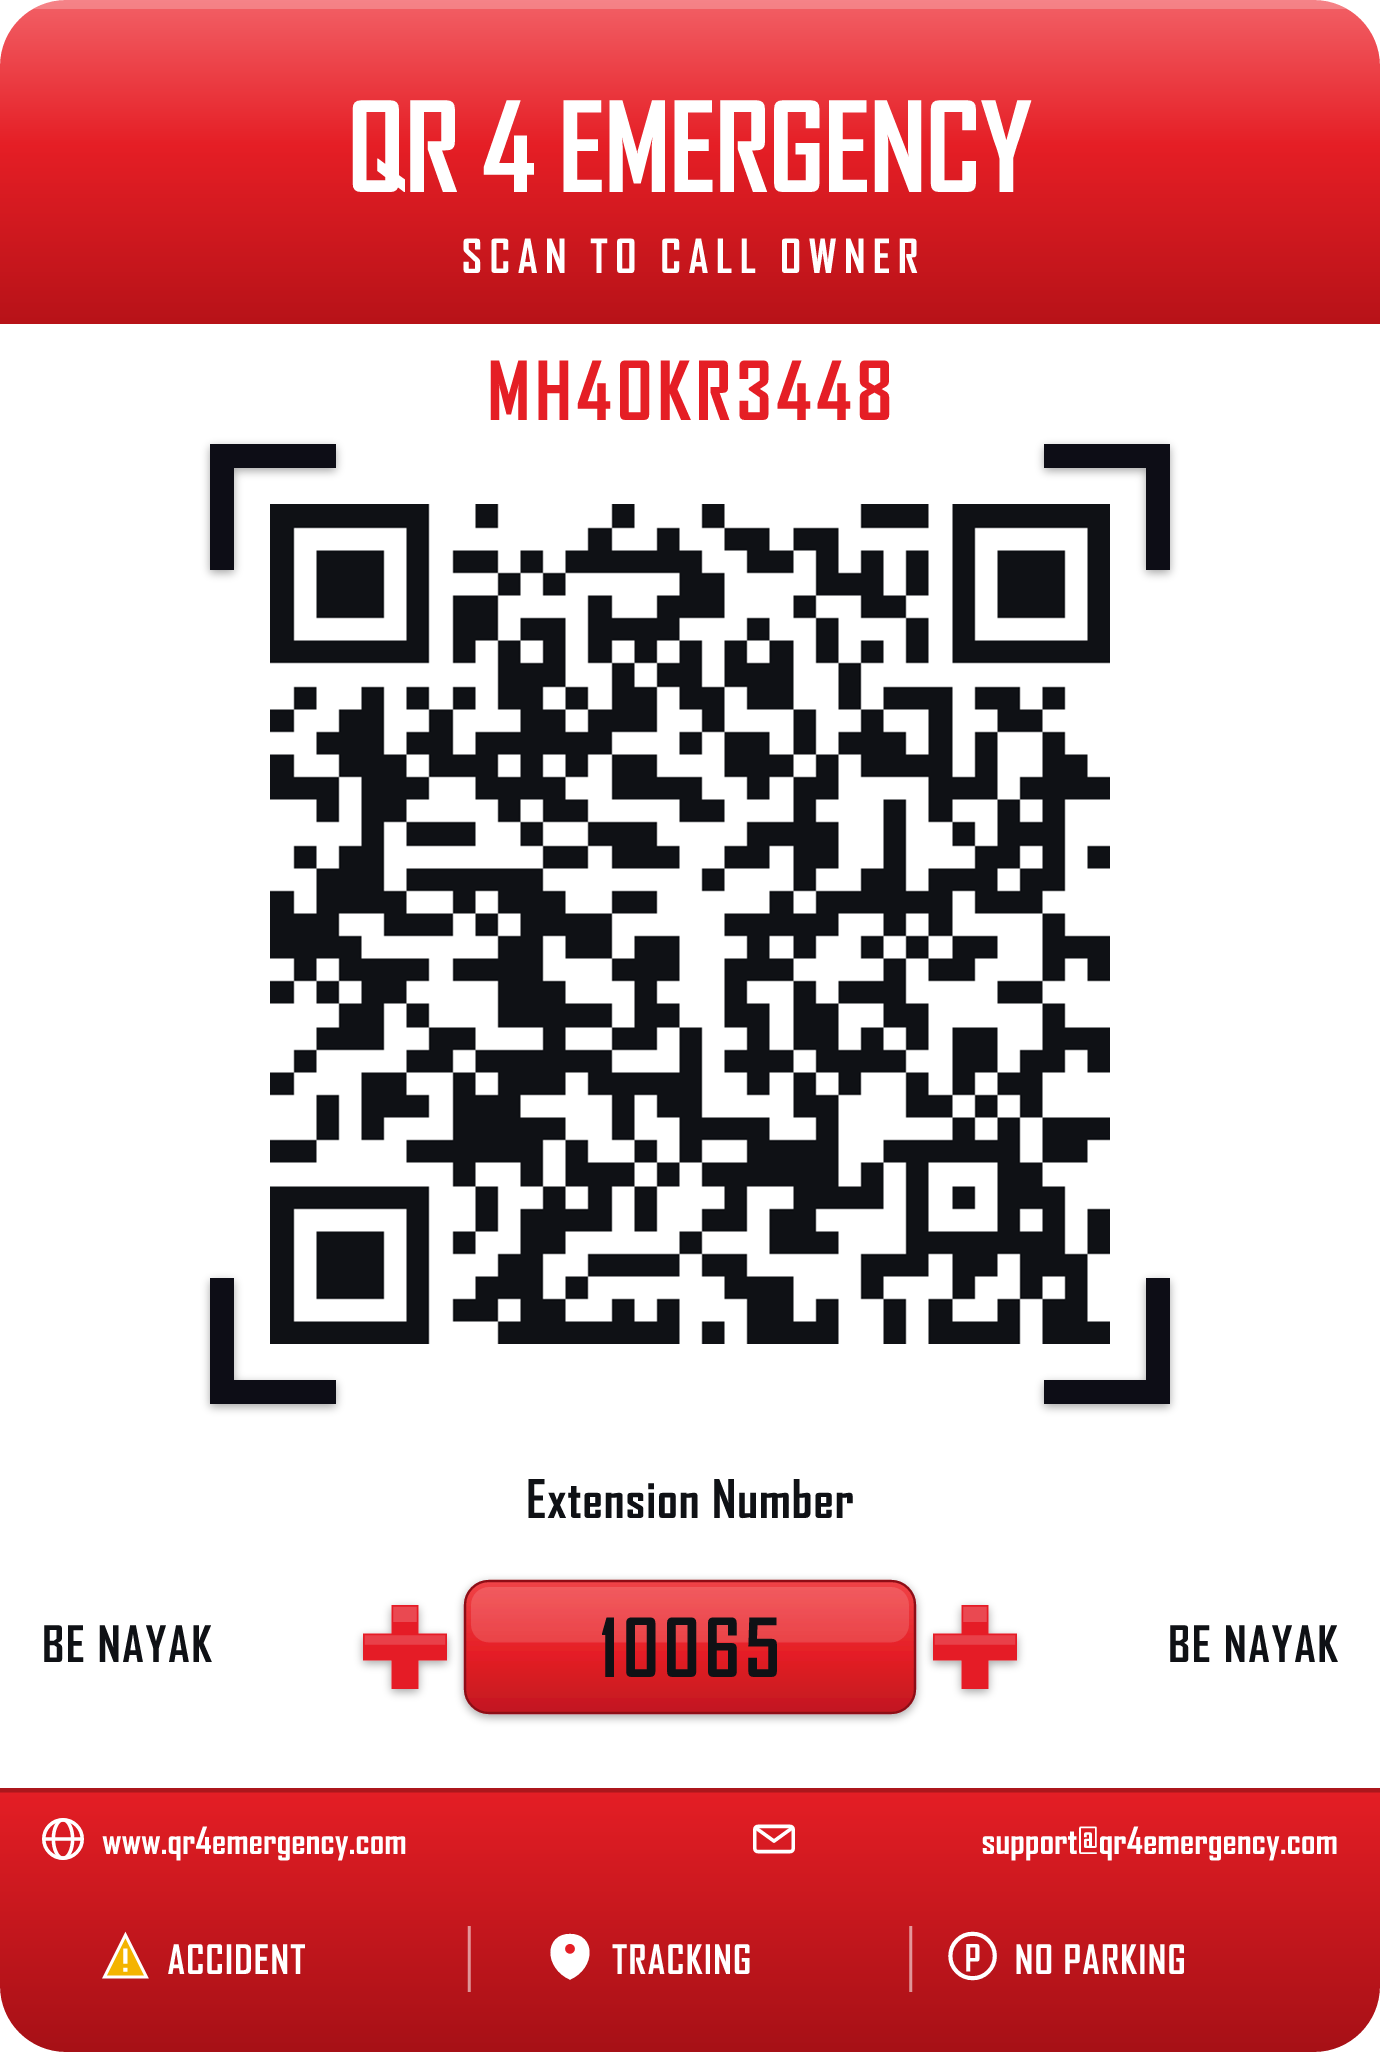
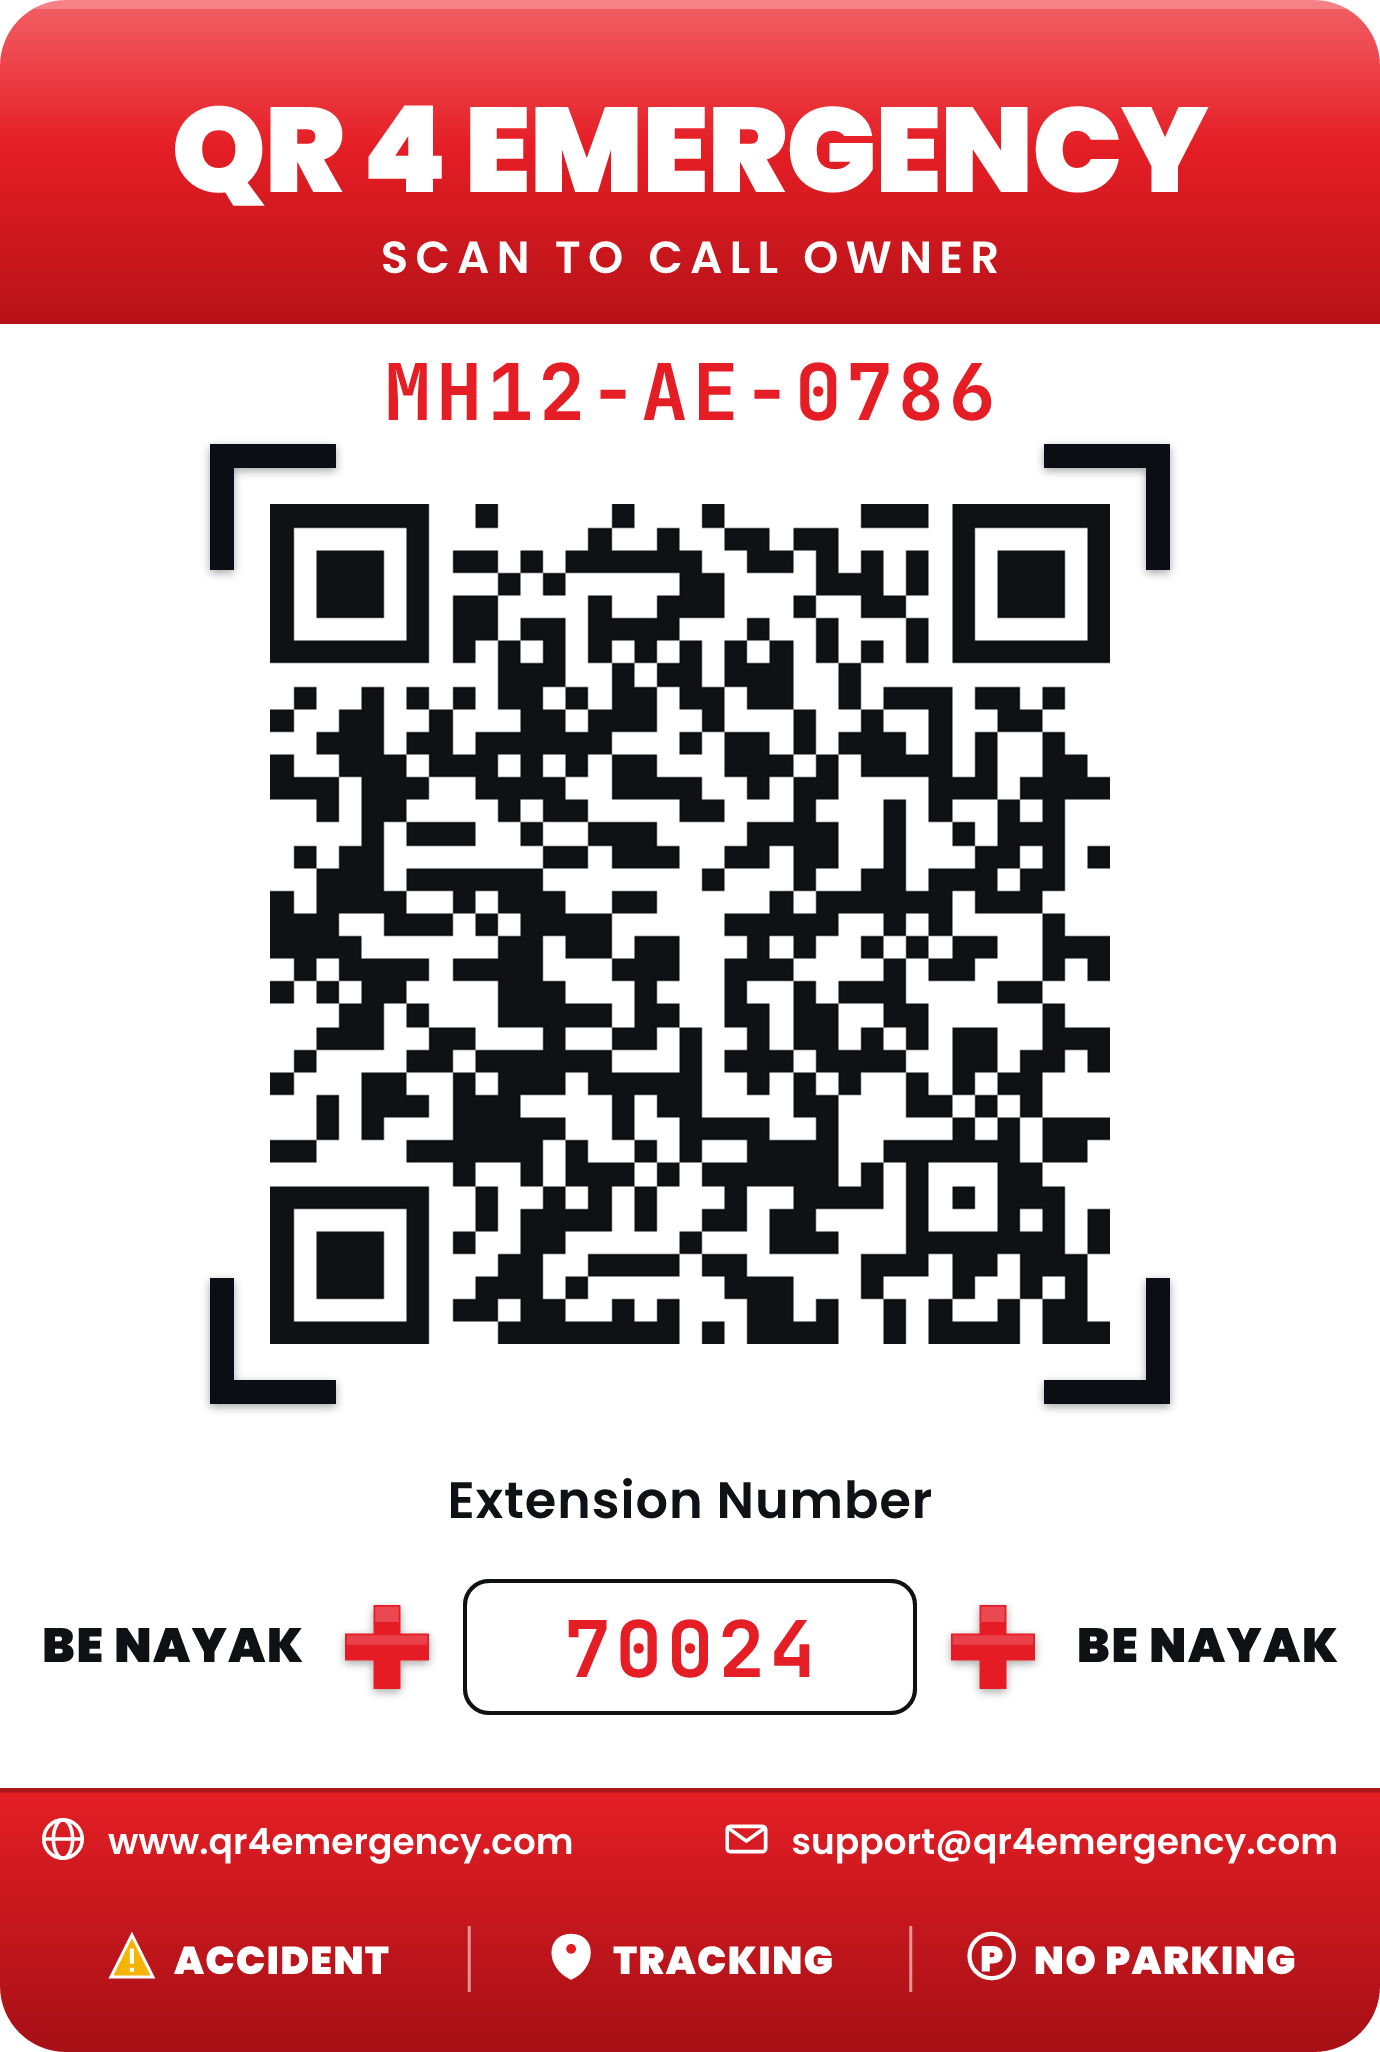
feat: update vehicle number format and reduce file size limits in admin panel

diff --git a/src/utils/sticker.js b/src/utils/sticker.js
@@ -17,6 +17,19 @@ const RED = '#E51E25';
 const INK = '#0F1115';
 const WHITE = '#FFFFFF';
 
+// Insert dashes between the segments of an Indian vehicle number to
+// match the sticker artwork (MH12AE0786 → MH12-AE-0786, 22BH1234AA →
+// 22-BH-1234-AA). Falls through unchanged for strings that don't match
+// either format so free-form/legacy values still render.
+function formatVehicleNumber(raw) {
+  const s = String(raw || '').replace(/[\s-]+/g, '').toUpperCase();
+  const std = s.match(/^([A-Z]{2})([0-9]{2})([A-Z]{1,2})([0-9]{4})$/);
+  if (std) return `${std[1]}${std[2]}-${std[3]}-${std[4]}`;
+  const bh = s.match(/^([0-9]{2})(BH)([0-9]{4})([A-Z]{1,2})$/);
+  if (bh) return `${bh[1]}-${bh[2]}-${bh[3]}-${bh[4]}`;
+  return s;
+}
+
 // ── Fonts ────────────────────────────────────────────────────────────
 //
 // resvg-js's prebuilt binary on Railway's build image was silently
@@ -91,6 +104,29 @@ try {
       'Run `npm install` in backend/ so @fontsource/*, wawoff2, opentype.js ' +
       `land in node_modules. (${e.message})`
   );
+}
+
+// Measure the rendered width of a string in the given font at the given
+// size, matching the exact glyph walk + kerning + letter-spacing that
+// textPath() uses. Callers use this to place icons and neighbouring text
+// with sub-pixel accuracy instead of relying on hardcoded estimates
+// (which drift whenever fonts, sizes, or copy change).
+export function measureTextWidth(text, { font, size, letterSpacing = 0 }) {
+  if (!font || !text) return 0;
+  const str = String(text);
+  const scale = size / font.unitsPerEm;
+  const glyphs = font.stringToGlyphs(str);
+  let advance = 0;
+  for (let i = 0; i < glyphs.length; i++) {
+    advance += glyphs[i].advanceWidth * scale;
+    if (i < glyphs.length - 1) {
+      const kern = font.getKerningValue
+        ? font.getKerningValue(glyphs[i], glyphs[i + 1]) * scale
+        : 0;
+      advance += kern + letterSpacing;
+    }
+  }
+  return advance;
 }
 
 // Serialise an opentype.js Path.commands array into an SVG `d`
@@ -256,13 +292,13 @@ function buildStickerSvg({ qrPngB64, digits, showVehicle, vehicleNumber }) {
   const PILL_Y = ROW_Y + (ROW_H - PILL_H) / 2;
 
   // Bottom row horizontal layout: BE NAYAK ... cross ... pill ... cross ... BE NAYAK
-  // Spacing budget (per side):
-  //   left edge (14) → BE NAYAK label (~80wide at 16pt) → 12px gap →
-  //   cross (28) → 8px gap → pill → 8px gap → cross → 12px gap → BE NAYAK
-  // Adds up cleanly at W=460.
+  // Every gap is computed from real measured widths so the row stays
+  // perfectly symmetric — no hardcoded label-width guesses that drift
+  // when font or copy changes.
   const CROSS_SIZE = 28;
-  const leftCrossCx = PILL_X - 20;
-  const rightCrossCx = PILL_X + PILL_W + 20;
+  const CROSS_TO_PILL_GAP = 12;
+  const leftCrossCx = PILL_X - CROSS_TO_PILL_GAP - CROSS_SIZE / 2;
+  const rightCrossCx = PILL_X + PILL_W + CROSS_TO_PILL_GAP + CROSS_SIZE / 2;
   const leftLabelX = 14;
   const rightLabelX = W - 14;
   const rowCy = ROW_Y + ROW_H / 2;
@@ -323,11 +359,13 @@ function buildStickerSvg({ qrPngB64, digits, showVehicle, vehicleNumber }) {
       font: FONT_BODY, size: 15, fill: WHITE, anchor: 'middle', letterSpacing: 2.4,
     })}
 
-    <!-- ── Vehicle number (auto-QR only) — uses mono so plate reads
-         cleanly and every character has the same width. ──────────── -->
+    <!-- ── Vehicle number — always shown when supplied (post-activation
+         manual QRs and auto-QRs both carry a vehicle). Mono so every
+         character has the same width; dashed formatting matches the
+         printed sticker artwork. ─────────────────────────────────── -->
     ${
       showVehicle
-        ? textPath((vehicleNumber || '').toUpperCase(), W / 2, HEADER_H + 32, {
+        ? textPath(formatVehicleNumber(vehicleNumber), W / 2, HEADER_H + 32, {
             font: FONT_MONO, size: 26, fill: RED, anchor: 'middle', letterSpacing: 1.5,
           })
         : ''
@@ -366,18 +404,14 @@ function buildStickerSvg({ qrPngB64, digits, showVehicle, vehicleNumber }) {
     })}
     ${cross(leftCrossCx, rowCy, CROSS_SIZE)}
 
-    <!-- Red pill with black digits — gradient + drop shadow so it
-         lifts off the white background like an inlaid enamel plate. -->
-    <g filter="url(#lift)">
-      <rect x="${PILL_X}" y="${PILL_Y}" width="${PILL_W}" height="${PILL_H}"
-            rx="8" ry="8" fill="url(#pillGrad)"
-            stroke="#8E0F16" stroke-width="0.8"/>
-      <!-- Top gloss strip -->
-      <rect x="${PILL_X + 2}" y="${PILL_Y + 2}" width="${PILL_W - 4}" height="${PILL_H * 0.42}"
-            rx="6" ry="6" fill="#FFFFFF" opacity="0.14"/>
-    </g>
+    <!-- White pill with red digits and a thin dark outline — matches the
+         printed sticker artwork exactly. Kept flat (no gradient / gloss)
+         so the digits pop crisply against the plain white body. -->
+    <rect x="${PILL_X}" y="${PILL_Y}" width="${PILL_W}" height="${PILL_H}"
+          rx="8" ry="8" fill="${WHITE}"
+          stroke="${INK}" stroke-width="1.4"/>
     ${textPath(digits || '—', W / 2, PILL_Y + 32, {
-      font: FONT_MONO, size: 26, fill: INK, anchor: 'middle', letterSpacing: 1.5,
+      font: FONT_MONO, size: 26, fill: RED, anchor: 'middle', letterSpacing: 1.5,
     })}
 
     ${cross(rightCrossCx, rowCy, CROSS_SIZE)}
@@ -403,64 +437,83 @@ function buildStickerSvg({ qrPngB64, digits, showVehicle, vehicleNumber }) {
 
 // ── Footer helpers ────────────────────────────────────────────────
 
-// Row 1 groups: globe icon + website on the left half, mail icon +
-// email on the right half. Right-aligning the email against W-16 (with
-// its icon just to the left) guarantees "support@qr4emergency.com" fits
-// even at font-size 12 without running off the sticker edge.
+// Row 1: globe + website chip on the left, mail + email chip on the
+// right. Uses real measured text widths so the icon-to-text gap is
+// EXACTLY the same on both sides, regardless of font metrics or copy
+// changes. Left-anchored on the left, right-anchored on the right —
+// gives symmetric visual weight against the sticker edges.
 function footerRow1(y) {
-  const leftIconX = 14;
-  const leftTextX = leftIconX + 20;
+  const ICON_SIZE = 14;
+  const ICON_TEXT_GAP = 8; // px gap between icon's right edge and text's left edge
+  const EDGE_PAD = 14;     // px from sticker edge to first/last element
+  const font = FONT_BODY;
+  const size = 12;
+
+  // Left side: globe icon at EDGE_PAD, text follows.
+  const leftIconX = EDGE_PAD;
+  const leftTextX = leftIconX + ICON_SIZE + ICON_TEXT_GAP;
+
+  // Right side: measure the email text FIRST, then place the icon just
+  // to its left with the exact same gap. This is what was drifting
+  // before — a hardcoded 175px estimate for a string that renders at
+  // ~155px meant the icon sat 20px too far left.
   const emailText = 'support@qr4emergency.com';
-  // Email is right-anchored (text-anchor="end") so the closing ".com"
-  // is guaranteed to sit against the right margin regardless of the
-  // font's actual rendered width. The mail icon is positioned to the
-  // left of an approximate 175px text extent so the icon-to-text gap
-  // stays visually consistent; a small under-estimate here just means
-  // the icon sits slightly closer to the text, never that text clips.
-  const rightTextRight = W - 14;
-  const estEmailWidth = 175;
-  const rightIconX = rightTextRight - estEmailWidth - 20;
+  const emailWidth = measureTextWidth(emailText, { font, size });
+  const rightTextRight = W - EDGE_PAD;
+  const rightTextLeft = rightTextRight - emailWidth;
+  const rightIconX = rightTextLeft - ICON_TEXT_GAP - ICON_SIZE;
+
   return `
-    ${iconGlobe(leftIconX, y - 10, 14, WHITE)}
+    ${iconGlobe(leftIconX, y - 10, ICON_SIZE, WHITE)}
     ${textPath('www.qr4emergency.com', leftTextX, y + 2, {
-      font: FONT_BODY, size: 12, fill: WHITE, anchor: 'start',
+      font, size, fill: WHITE, anchor: 'start',
     })}
 
-    ${iconMail(rightIconX, y - 10, 14, WHITE)}
+    ${iconMail(rightIconX, y - 10, ICON_SIZE, WHITE)}
     ${textPath(emailText, rightTextRight, y + 2, {
-      font: FONT_BODY, size: 12, fill: WHITE, anchor: 'end',
+      font, size, fill: WHITE, anchor: 'end',
     })}
   `;
 }
 
 // Row 2: three feature badges with thin white dividers between them.
-// Each [icon + gap + label] block is centred on the column's cx using
-// an approximate label width — labels have very different widths
-// ("NO PARKING" is ~30% wider than "TRACKING") so a single fixed
-// offset like row 1's was pushing NO PARKING off the sticker edge.
+// Each [icon + gap + label] block is centred on its column using the
+// REAL measured label width so ACCIDENT (short) and NO PARKING (long)
+// each sit dead-centre in their third. Dividers land halfway between
+// adjacent columns.
 function footerRow2(y) {
+  const ICON_SIZE = 16;
+  const ICON_TEXT_GAP = 6;
+  const FONT_SIZE = 13;
+  const LETTER_SPACING = 0.4;
+  const font = FONT_HEADING;
+  const opts = { font, size: FONT_SIZE, letterSpacing: LETTER_SPACING };
+
   const cols = [
-    { cx: W * 0.18, icon: iconWarning, label: 'ACCIDENT',   textW: 76 },
-    { cx: W * 0.50, icon: iconPin,     label: 'TRACKING',   textW: 74 },
-    { cx: W * 0.82, icon: iconParking, label: 'NO PARKING', textW: 100 },
+    { cx: W * 0.18, icon: iconWarning, label: 'ACCIDENT' },
+    { cx: W * 0.50, icon: iconPin,     label: 'TRACKING' },
+    { cx: W * 0.82, icon: iconParking, label: 'NO PARKING' },
   ];
-  const dividers = [W * 0.34, W * 0.66];
-  const iconSize = 16;
-  const gap = 6;
 
   let out = '';
   for (const c of cols) {
-    const totalW = iconSize + gap + c.textW;
+    const textW = measureTextWidth(c.label, opts);
+    const totalW = ICON_SIZE + ICON_TEXT_GAP + textW;
     const iconX = c.cx - totalW / 2;
-    const textX = iconX + iconSize + gap;
+    const textX = iconX + ICON_SIZE + ICON_TEXT_GAP;
     out += `
-      ${c.icon(iconX, y - 12, iconSize, WHITE)}
+      ${c.icon(iconX, y - 12, ICON_SIZE, WHITE)}
       ${textPath(c.label, textX, y + 2, {
-        font: FONT_HEADING, size: 13, fill: WHITE, anchor: 'start', letterSpacing: 0.4,
+        font, size: FONT_SIZE, fill: WHITE, anchor: 'start', letterSpacing: LETTER_SPACING,
       })}
     `;
   }
-  for (const dx of dividers) {
+  // Dividers sit halfway between column centres.
+  const divs = [
+    (cols[0].cx + cols[1].cx) / 2,
+    (cols[1].cx + cols[2].cx) / 2,
+  ];
+  for (const dx of divs) {
     out += `<line x1="${dx}" y1="${y - 14}" x2="${dx}" y2="${y + 8}"
                    stroke="${WHITE}" stroke-opacity="0.55" stroke-width="1"/>`;
   }
@@ -558,14 +611,17 @@ function escapeXml(s) {
  * @param {object} opts
  * @param {string} opts.alertUrl — URL encoded into the QR
  * @param {string|number} opts.digits — extension number shown in the pill
- * @param {boolean} [opts.isManual=true] — hides vehicle number when true
- * @param {string} [opts.vehicleNumber] — auto-QR case only
+ * @param {boolean} [opts.isManual=true] — kept for backwards compat only;
+ *   layout no longer switches on it. Vehicle number is shown whenever
+ *   supplied and skipped when empty (which is the mint-time state for
+ *   pre-activation manual stickers).
+ * @param {string} [opts.vehicleNumber] — Indian vehicle plate, any format
  * @returns {Promise<Buffer>} PNG bytes
  */
 export async function renderStickerPng({
   alertUrl,
   digits,
-  isManual = true,
+  isManual = true, // eslint-disable-line no-unused-vars
   vehicleNumber = '',
 }) {
   // Error correction Q → ~25% redundancy, so a scratched sticker still
@@ -580,8 +636,7 @@ export async function renderStickerPng({
     color: { dark: INK, light: WHITE },
   });
 
-  const showVehicle =
-    !isManual && vehicleNumber && vehicleNumber.trim().length > 0;
+  const showVehicle = Boolean(vehicleNumber && vehicleNumber.trim().length > 0);
 
   const svg = buildStickerSvg({
     qrPngB64: qrBuffer.toString('base64'),

diff --git a/src/public/admin.html b/src/public/admin.html
@@ -172,7 +172,7 @@
       <h2>Home Screen Ad Video</h2>
       <p class="muted" style="margin-top: -6px; margin-bottom: 14px;">
         Upload a short video shown as an ad card on every user's home screen.
-        Uploading a new file replaces the current one. Max file size 200 MB.
+        Uploading a new file replaces the current one. Max file size 50 MB.
       </p>
       <div id="promo-err" class="err hidden"></div>
       <div id="promo-ok" class="success hidden"></div>
@@ -621,7 +621,7 @@
       } else {
         warn.style.color = 'var(--text3)';
         warn.textContent =
-          'Bucket "' + (p.bucket || '?') + '" ready · MP4 / WebM / MOV up to 200 MB.';
+          'Bucket "' + (p.bucket || '?') + '" ready · MP4 / WebM / MOV up to 50 MB.';
       }
       if (p.url) {
         $('promo-current').classList.remove('hidden');
@@ -646,8 +646,8 @@
       showPromoErr('Choose a video file first.');
       return;
     }
-    if (file.size > 200 * 1024 * 1024) {
-      showPromoErr('File is larger than 200 MB. Please compress it first.');
+    if (file.size > 50 * 1024 * 1024) {
+      showPromoErr('File is larger than 50 MB. Please compress it first.');
       return;
     }
 

diff --git a/src/services/storage.service.js b/src/services/storage.service.js
@@ -84,8 +84,11 @@ export async function ensureBucket() {
 
   // 2. Bucket doesn't exist — create it public so the getPublicUrl()
   //    string we hand to the mobile player is actually readable. Also
-  //    lock the allowed mime types to videos + a 200MB per-object cap so
-  //    a bad upload can't stuff random data in here.
+  //    lock the allowed mime types to videos + a 50MB per-object cap so
+  //    a bad upload can't stuff random data in here. 50MB matches the
+  //    Supabase free-plan global upload limit — raising this requires
+  //    raising "Global upload file size limit" in the project dashboard
+  //    first, otherwise bucket create fails with 413.
   try {
     const res = await fetch(`${base}/bucket`, {
       method: 'POST',
@@ -97,7 +100,7 @@ export async function ensureBucket() {
         id: bucket,
         name: bucket,
         public: true,
-        file_size_limit: 200 * 1024 * 1024,
+        file_size_limit: 50 * 1024 * 1024,
         allowed_mime_types: ['video/mp4', 'video/webm', 'video/quicktime'],
       }),
     });

diff --git a/scripts/preview-sticker.js b/scripts/preview-sticker.js
@@ -7,9 +7,9 @@ import fs from 'fs';
 
 const png = await renderStickerPng({
   alertUrl: 'https://pi-backend-qkjh.onrender.com/alert/preview',
-  digits: '10065',
+  digits: '70024',
   isManual: false, // false so the vehicle number renders too
-  vehicleNumber: 'MH40KR3448',
+  vehicleNumber: 'MH12AE0786',
 });
 fs.writeFileSync('scripts/preview.png', png);
 console.log('Wrote', png.length, 'bytes to scripts/preview.png');
